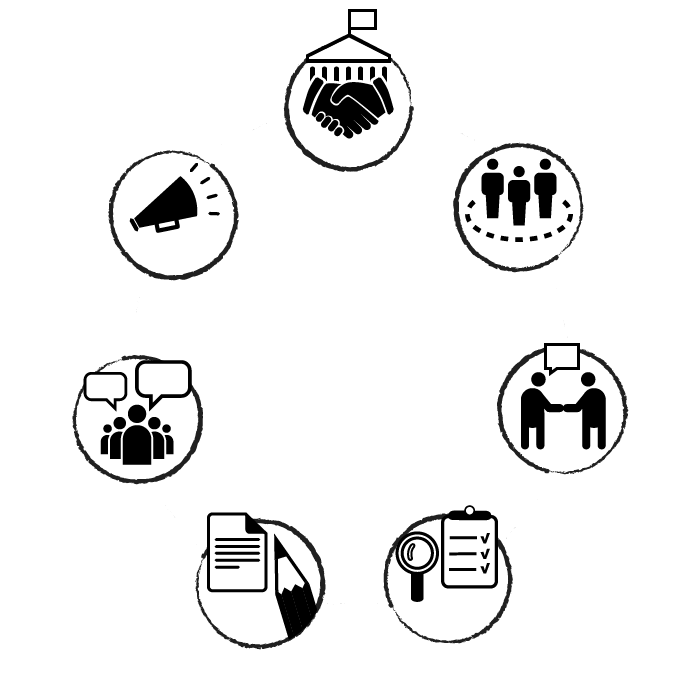
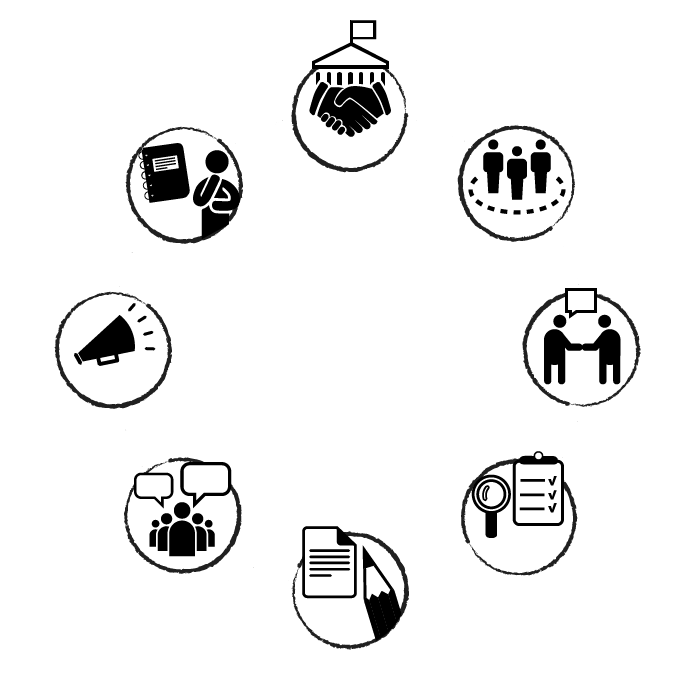
Add Step 8 to 'learn about CBM' page
Step 8: Reflection & learning

diff --git a/umibukela/templates/learn.html b/umibukela/templates/learn.html
@@ -79,7 +79,7 @@
 
       <div class="text-center">
         <h2 class="text-white">How do we do CBM?</h2>
-        <p>The CBM process is a <strong>cycle</strong> with 7 core steps.</p>
+        <p>The CBM process is a <strong>cycle</strong> with 8 core steps.</p>
       </div>
 
       <div class="text-center">
@@ -151,6 +151,14 @@
             </div>
           </a>
           
+          <a href="#reflection">
+            <div class="diagram-box" id="box-step8">
+              <div class="diagram-caption">
+                <h1>8</h1>
+                <h2>Reflection & learning</h2>
+              </div>
+            </div>
+          </a>
 
         </div>
       </div>
@@ -242,6 +250,16 @@
             </a>            
           </div>
 
+          <div class="diagram-box" id="box-step8">
+            <div class="diagram-image"><img src="{% static 'img/cbm-menu_step8.png' %}"></div>
+            <a href="#reflection">
+              <div class="diagram-caption">
+                <h1>8</h1>
+                <h2>Reflection & learning</h2>
+              </div>
+            </a>            
+          </div>
+
         </div>
       </div>
 
@@ -264,6 +282,7 @@
               <li><a href="#report">5. Report findings</a></li>
               <li><a href="#dialogues">6. Conduct dialogues</a></li>
               <li><a href="#advocacy">7. Engage in advocacy</a></li>
+              <li><a href="#reflection">8. Reflection & learning</a></li>
             </ul>
 
             <button class="btn btn-primary btn-print"><i class="fa fa-print"></i> Print the steps</button>
@@ -414,6 +433,20 @@ It is often the case that issues raised at a local level need provincial or even
                 <div class="col-md-4">
                   <img src="{% static 'img/black-sash-2.png' %}" class="img-thumbnail" width="300px" height="auto">
                 </div>
+              </div>
+            </section>
+
+            <section id="reflection">
+              <header>
+                <div class="step-icon"><img src="{% static 'img/cbm_step8.png' %}" width="170" height="170"></div>
+                <h4>Step 8</h4>
+                <h2>Reflection & learning</h2>
+              </header>
+
+              <div class="row step-detail">
+                <div class="col-md-8">
+                  <p>Writing up case studies of the learning experiences - what worked well and should be repeated; what the challenges were and how these should be changed in the next monitoring cycle. </p>
+                </div>  
               </div>
             </section>
 

diff --git a/umibukela/static/stylesheets/site.scss b/umibukela/static/stylesheets/site.scss
@@ -810,13 +810,14 @@ footer.footer{
 
     width: 180px;
 
-    &#box-step1{ position: absolute; top: 145px; left: 255px; }
-    &#box-step2{ position: absolute; top: 235px; left: 430px; }
-    &#box-step3{ position: absolute; top: 435px; left: 470px; }
-    &#box-step4{ position: absolute; top: 625px; left: 360px; }
-    &#box-step5{ position: absolute; top: 625px; left: 165px; }
-    &#box-step6{ position: absolute; top: 445px; left: 50px; }
-    &#box-step7{ position: absolute; top: 240px; left: 85px; }
+    &#box-step1{ width: 140px; position: absolute; top: 140px; left: 278px; }
+    &#box-step2{ position: absolute; top: 205px; left: 425px; }
+    &#box-step3{ position: absolute; top: 372px; left: 490px; }
+    &#box-step4{ position: absolute; top: 540px; left: 430px; }
+    &#box-step5{ position: absolute; top: 620px; left: 260px; }
+    &#box-step6{ position: absolute; top: 545px; left: 92px; }
+    &#box-step7{ position: absolute; top: 378px; left: 22px; }
+    &#box-step8{ position: absolute; top: 204px; left: 94px;}
 
   }
   .diagram-caption{
